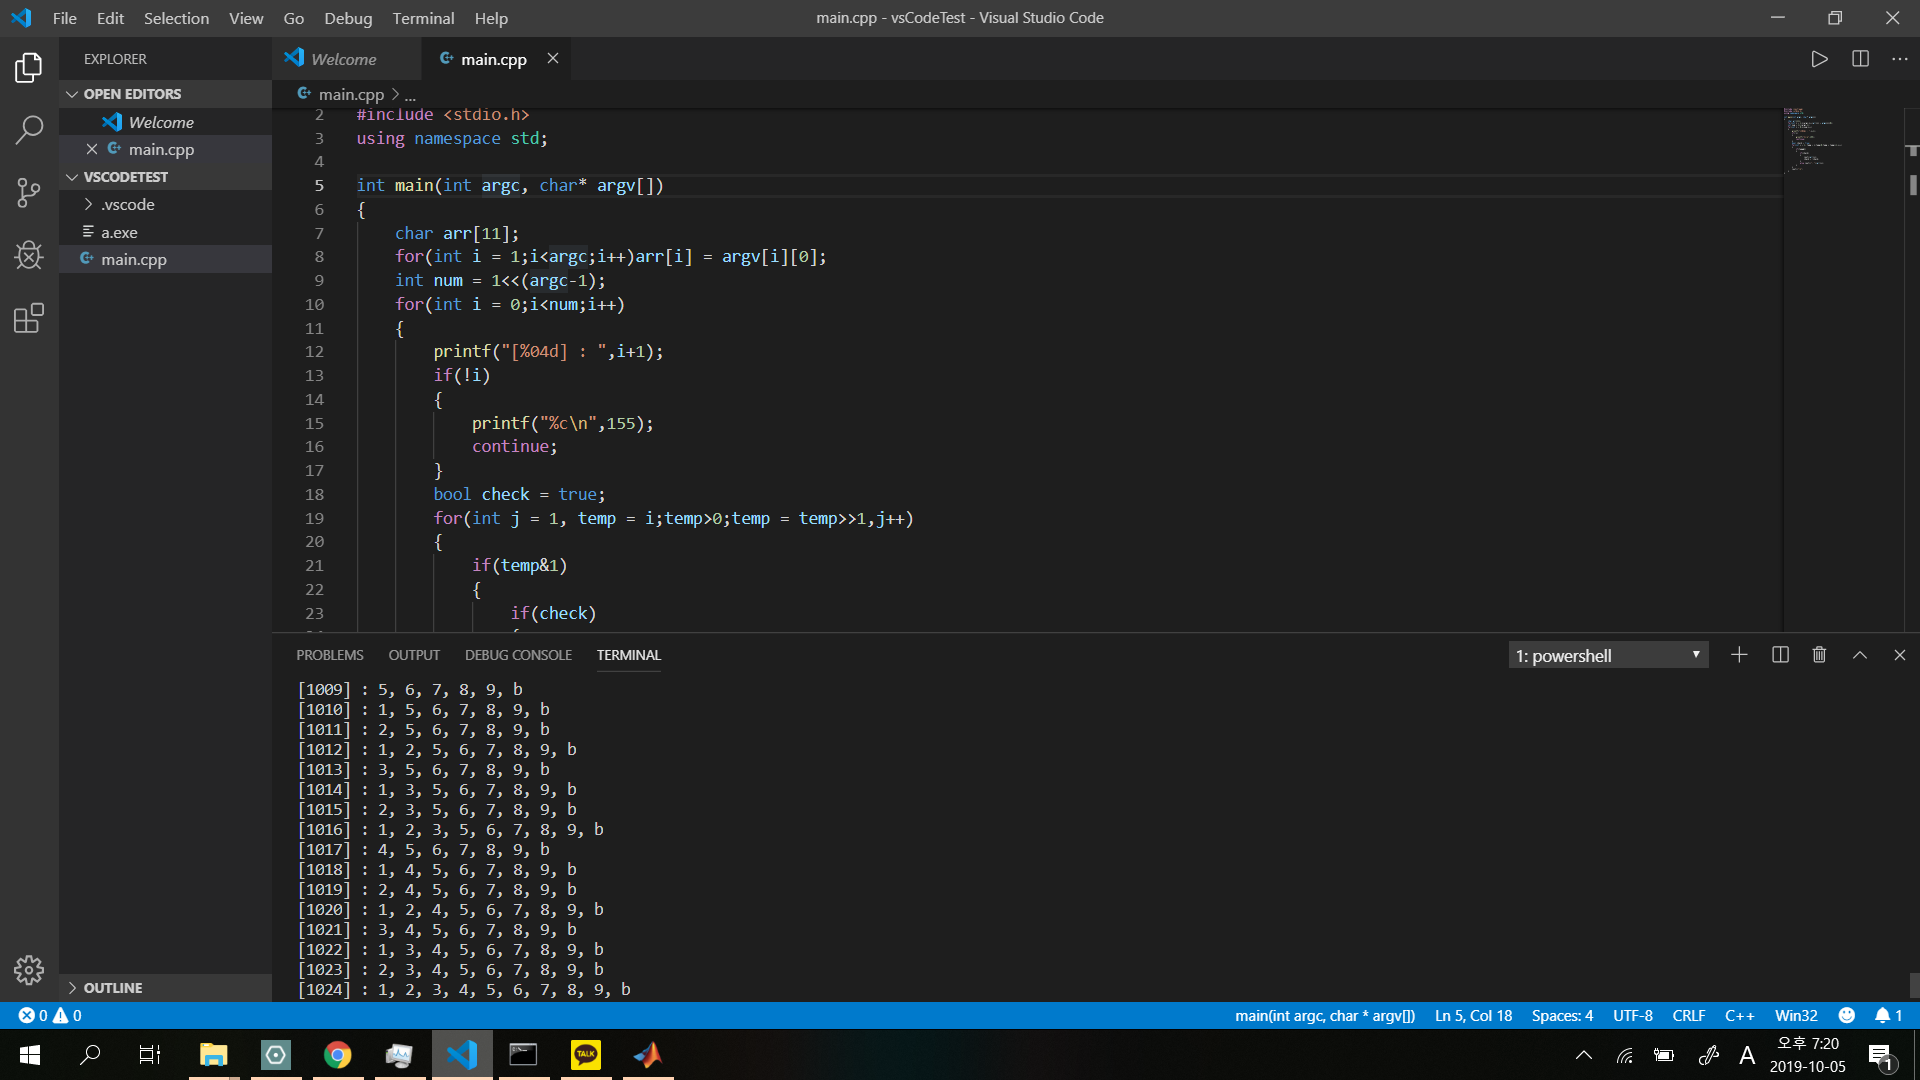
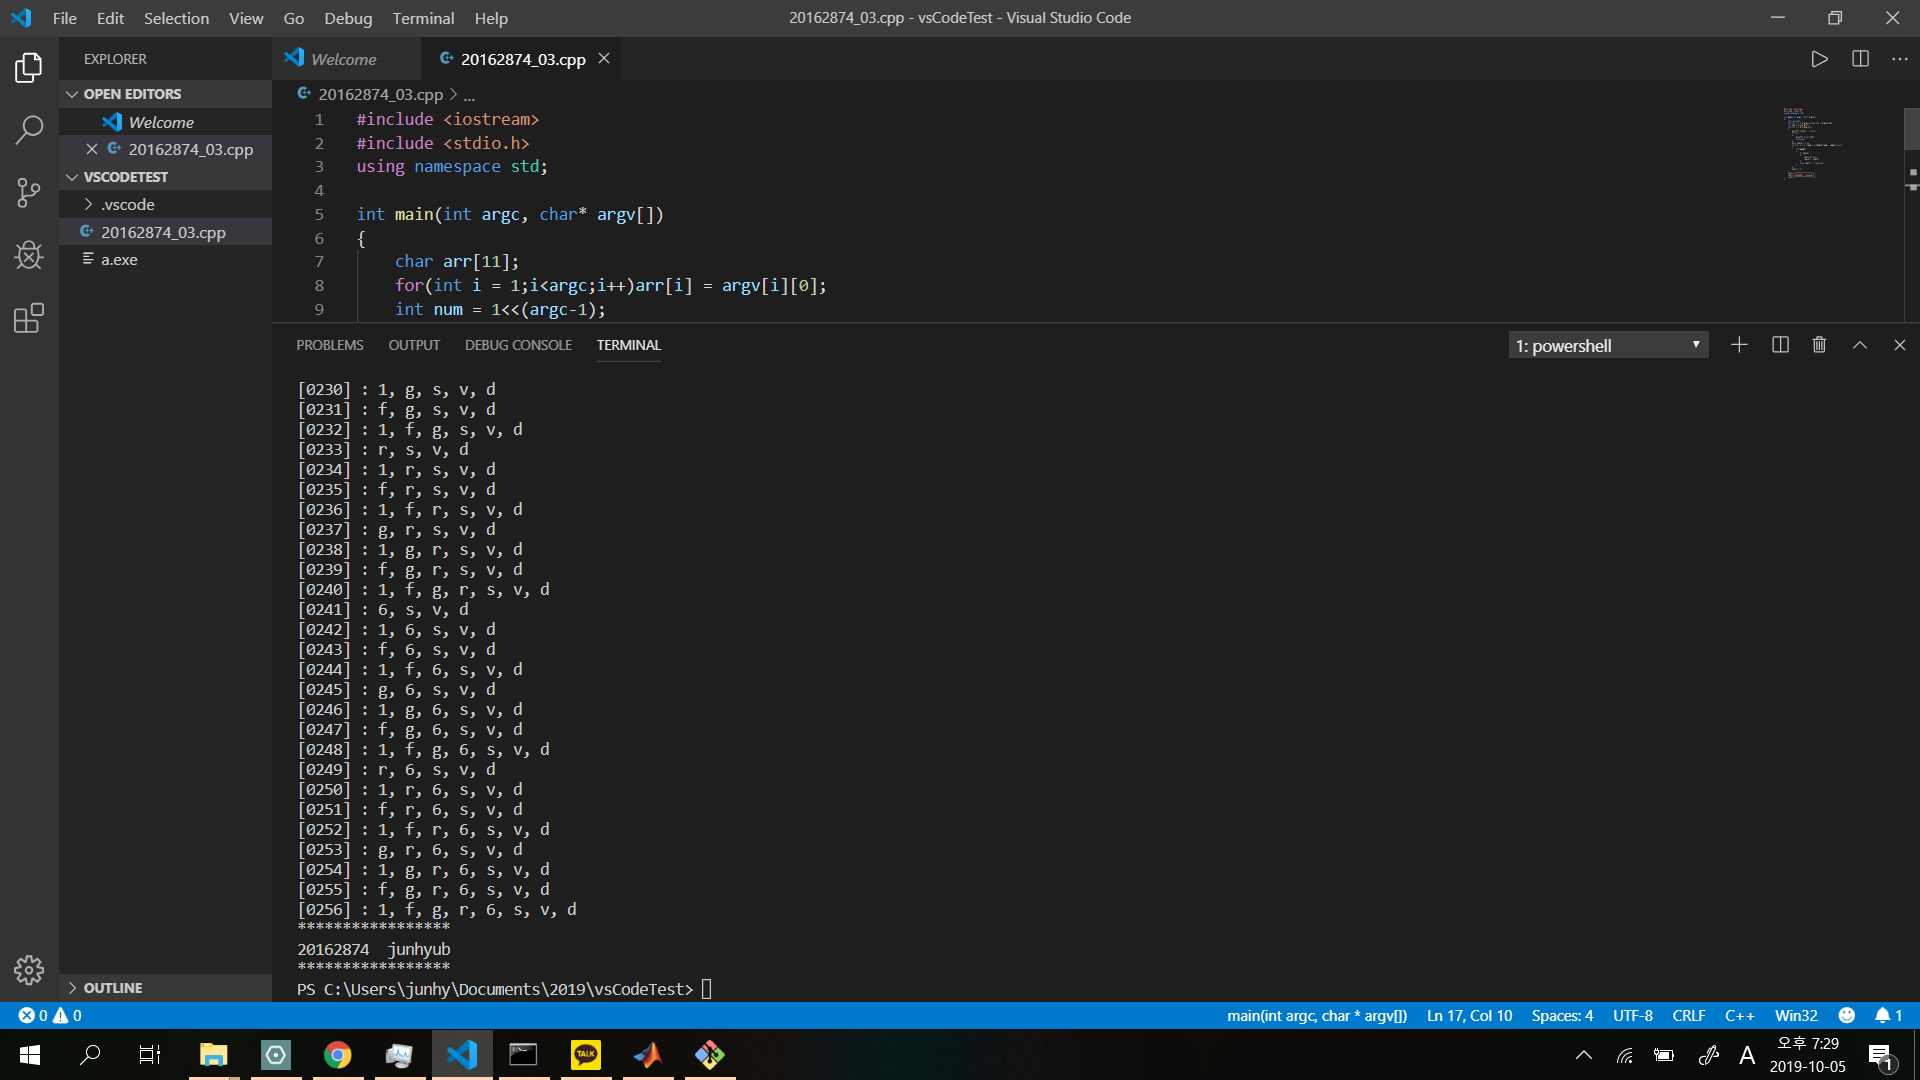
20162874_assignment_02

diff --git a/20162874_03/20162874_03.cpp b/20162874_03/20162874_03.cpp
@@ -30,4 +30,7 @@ int main(int argc, char* argv[])
         }
         cout<<"\n";
     }
+    cout<<"*****************\n";
+    cout<<"20162874  junhyub\n";
+    cout<<"*****************\n";
 }
